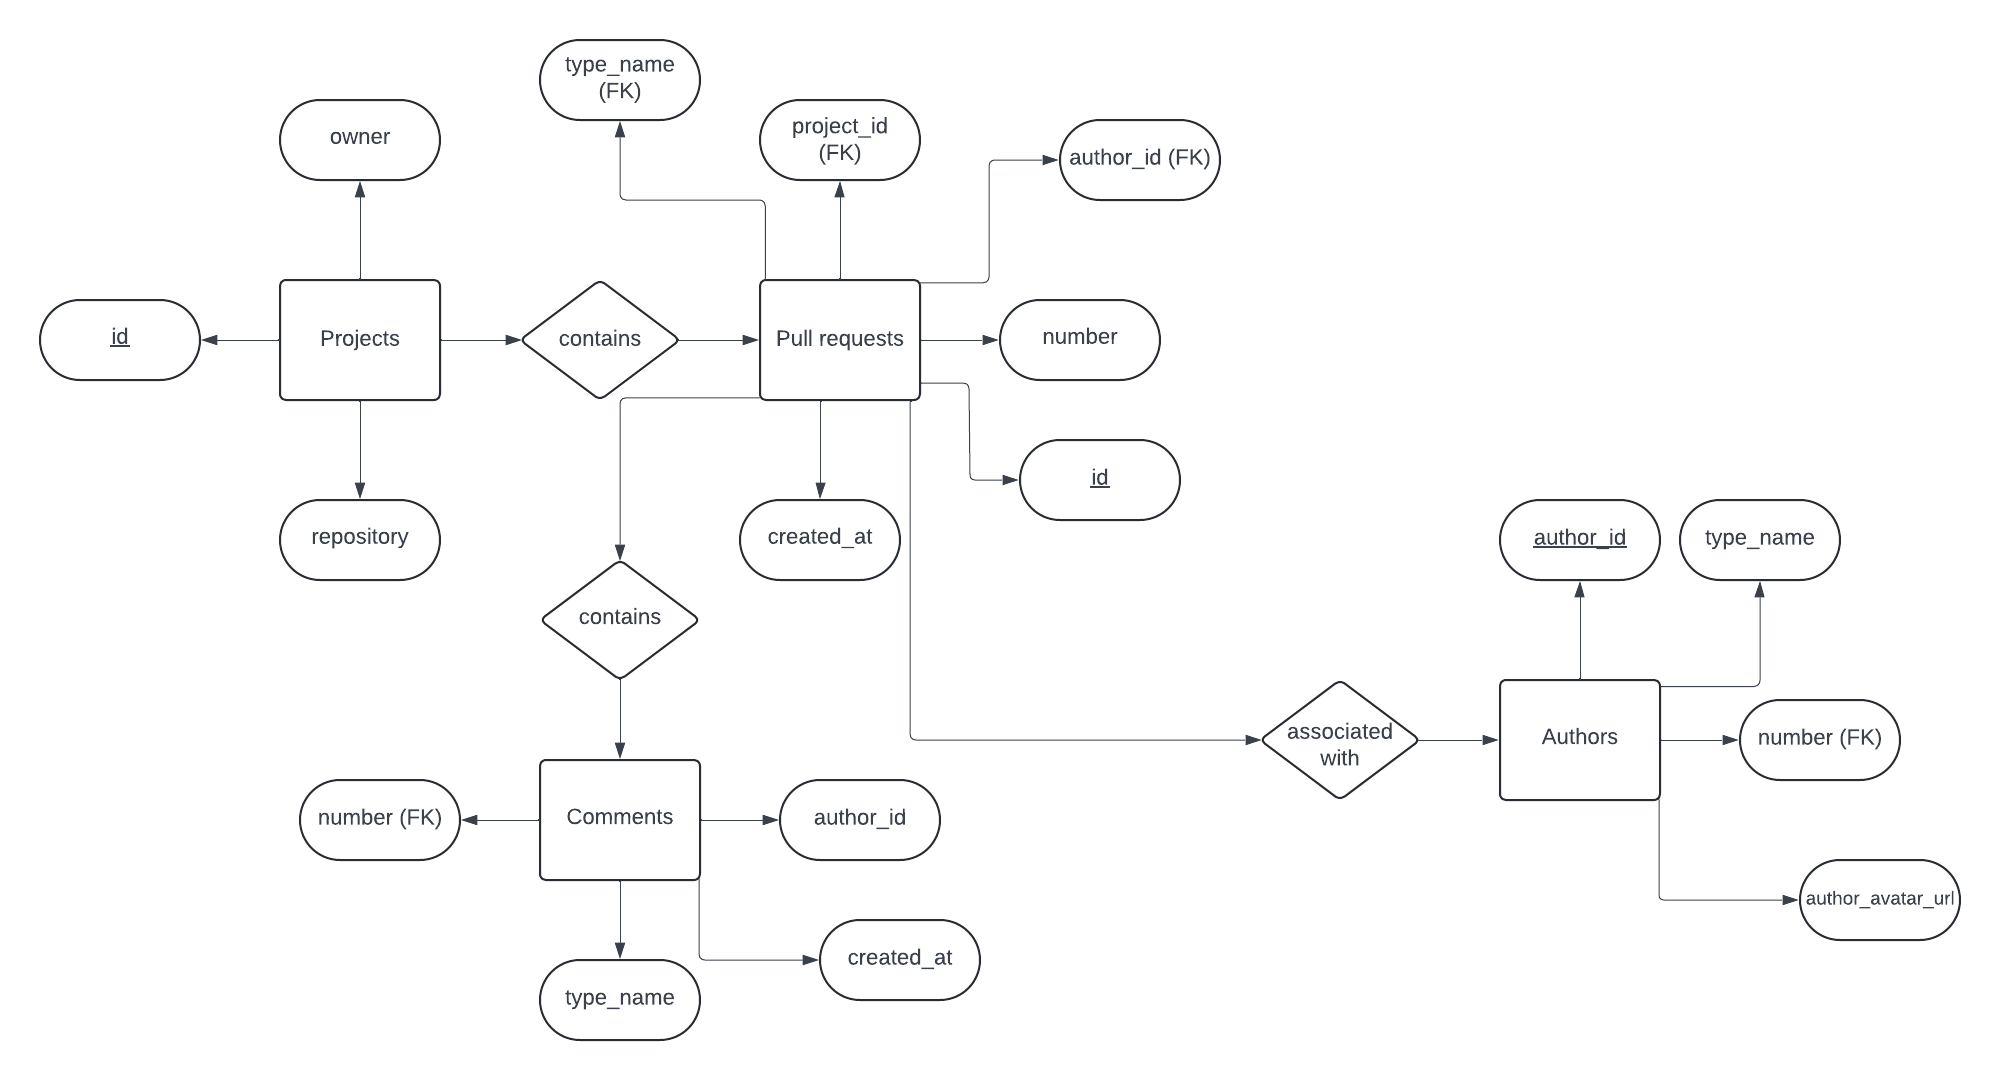
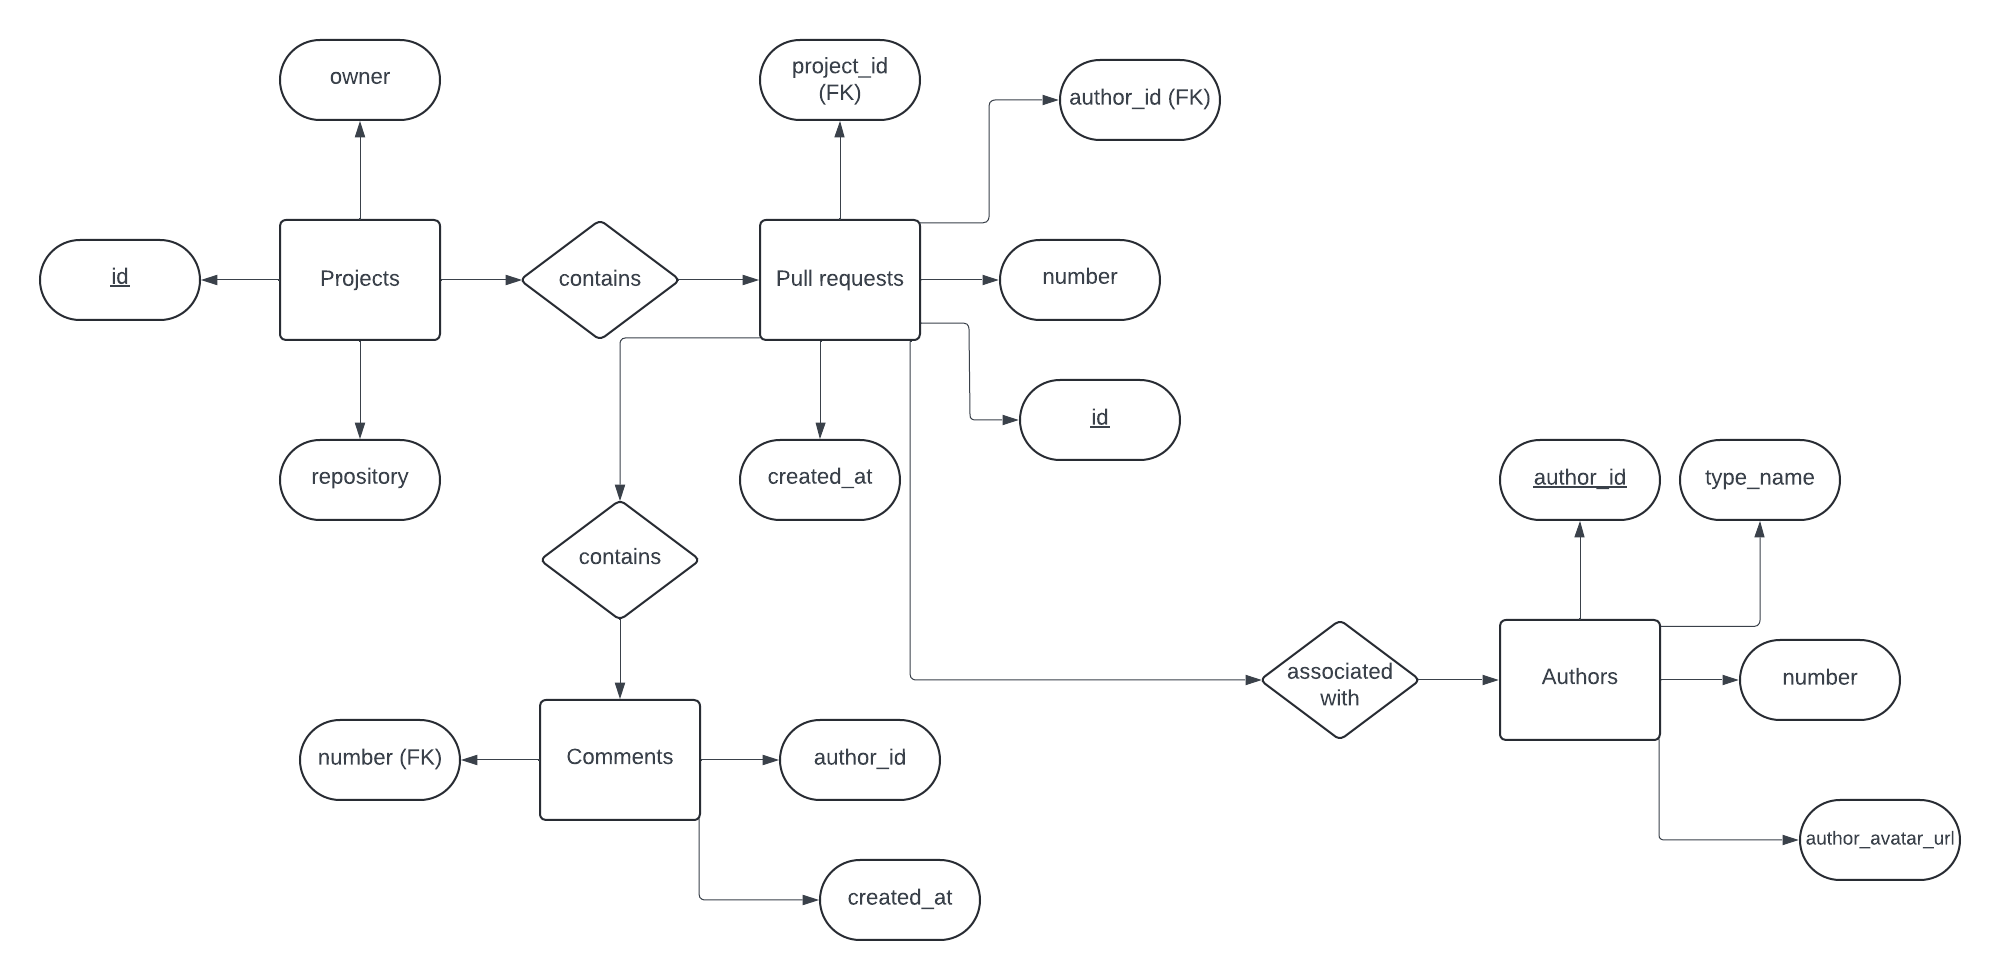
Edit crawl, migrate, & split files as well as schema.sql file & database schema ER diagram after initial feedback

diff --git a/migrator/migrate.py b/migrator/migrate.py
@@ -10,37 +10,28 @@ import mysql.connector
 
 # Initialises & reads the settings.ini configuration file
 config = ConfigParser()
-config.read("../crawler/settings.ini")
+config.read("../settings.ini")
 
 # Initialises the database connection
 db = mysql.connector.connect(
-    host="localhost",
-    user=config["DEFAULT"]["USER"],
-    password=config["DEFAULT"]["PASSWORD"],
-    database="codereviewvisualisation",
+    host=config["DATABASE"]["HOST"],
+    user=config["DATABASE"]["USER"],
+    password=config["DATABASE"]["PASSWORD"],
+    database=config["DATABASE"]["DATABASE_NAME"],
     time_zone="+00:00",  # Sets timezone to UTC
 )
-
-# Prints the database connection (for testing purposes, will probably be removed later on)
-print(db)
 
 # Initialises the database cursor
 cursor = db.cursor()
 
 # Change directory to the "microsoft-typescript-split" folder inside the crawler folder
-os.chdir("../crawler/microsoft-typescript-split")
+os.chdir("../data/microsoft-typescript-split")
 
 # Add the microsoft/typescript repository to the projects table
-OWNER = "microsoft"
-REPO = "typescript"
-projects_sql = f"INSERT INTO projects VALUES (1, '{OWNER}', '{REPO}');"
+OWNER = config["DATABASE"]["OWNER"]
+REPO = config["DATABASE"]["REPO"]
+projects_sql = f"INSERT INTO projects (owner, repository) VALUES ('{OWNER}', '{REPO}');"
 cursor.execute(projects_sql)
-
-# Initialise the pull request count to be 1
-pull_request_id = 1
-
-# Initialise the comment ID to 1
-comment_id = 1
 
 # Find all files with the .json extension
 for filename in glob.glob("*.json"):
@@ -52,8 +43,12 @@ for filename in glob.glob("*.json"):
     cursor.execute(
         "SELECT id FROM projects WHERE owner = 'microsoft' AND repository = 'typescript';"
     )
-    result = cursor.fetchall()
-    project_id = result[0][0]
+    result = cursor.fetchone()
+    project_id = result[0]
+
+    # Clear the result set
+    cursor.fetchall()
+
     # Finds the pull request number
     number = data["number"]
     # Finds the pull request creation dat
@@ -74,17 +69,27 @@ for filename in glob.glob("*.json"):
     # Converts the pull request creation date in datetime format back into a string
     created_at_timestamp = created_at_datetime.strftime("%Y-%m-%d %H:%M:%S")
 
+    # Check if the author ID is already in the authors table
+    authors_ids_sql = "SELECT author_id FROM authors;"
+    cursor.execute(authors_ids_sql)
+    author_ids = cursor.fetchall()
+
     # If the pull request author is not a bot, then execute the query
     if not type_name == "Bot":
-        # Check if the author ID is already in the authors table
-        authors_check_sql = (
-            "SELECT author_id FROM authors WHERE author_id = '%s';" % login
-        )
-        cursor.execute(authors_check_sql)
-        authors_check_result = cursor.fetchall()
 
-        # If the author is not already in the authors table
-        if len(authors_check_result) == 0:
+        # Initialise the value of already_added to False
+        already_added = False
+
+        # For each value in the author_ids list of tuples
+        for (item,) in author_ids:
+            # If the author is not already in the authors table
+            if login == item:
+                # Set the value of already_added to true
+                already_added = True
+                break
+
+        # If the author is not already added into the authors table
+        if not already_added:
             # Insert into authors table with no number originally
             authors_sql = "INSERT INTO authors (author_id, author_avatar_url, type_name) VALUES (%s, %s, %s);"
             authors_values = (login, avatar_url, type_name)
@@ -93,13 +98,16 @@ for filename in glob.glob("*.json"):
         # Get the last inserted author ID using the current value of the "login" variable
         author_id = login
 
-        # Insert into pull_requests table with no author_id originally
-        pull_requests_sql = "INSERT INTO pull_requests (id, number, project_id, created_at) VALUES (%s, %s, %s, %s);"
+        # Insert into pull_requests table with author_id as "Ghost" originally
+        pull_requests_sql = (
+            "INSERT INTO pull_requests (number, project_id, created_at, author_id) VALUES (%s, %s, "
+            "%s, %s);"
+        )
         pull_requests_values = (
-            pull_request_id,
             number,
             project_id,
             created_at_timestamp,
+            "Ghost",
         )
         cursor.execute(pull_requests_sql, pull_requests_values)
 
@@ -122,9 +130,6 @@ for filename in glob.glob("*.json"):
         update_pull_requests_values = (author_id, pull_request_number)
         cursor.execute(update_pull_requests_sql, update_pull_requests_values)
 
-        # Increment the pull request count by 1
-        pull_request_id += 1
-
     # Loop through every comment
     for i in range(comment_count):
         # If the author is a deleted user
@@ -140,19 +145,14 @@ for filename in glob.glob("*.json"):
                 "%Y-%m-%d %H:%M:%S"
             )
 
-            # If the author is a deleted user, then add "Deleted User" value for author_id & type_name
-            comments_sql_deleted_user = "INSERT INTO comments VALUES (%s, %s, %s, %s);"
+            # If the author is a deleted user, then add "Deleted User" value for author_id
+            comments_sql_deleted_user = "INSERT INTO comments (number, author_id, created_at) VALUES (%s, %s, %s);"
             comments_values_deleted_user = (
-                comment_id,
                 number,
                 "Deleted User",
                 comment_created_at_timestamp,
             )
             cursor.execute(comments_sql_deleted_user, comments_values_deleted_user)
-
-            # Increment comment ID by 1
-            comment_id += 1
-
             continue
 
         # Finds the author identifier
@@ -175,16 +175,13 @@ for filename in glob.glob("*.json"):
         # If the pull request author is not a bot, then execute the query
         if not type_name == "Bot":
             # Insert into comments table
-            comments_sql = "INSERT INTO comments VALUES (%s, %s, %s, %s);"
+            comments_sql = "INSERT INTO comments (number, author_id, created_at) VALUES (%s, %s, %s);"
             comments_values = (
-                comment_id,
                 number,
                 login,
                 comment_created_at_timestamp,
             )
             cursor.execute(comments_sql, comments_values)
-
-            comment_id += 1
 
     # Commit the changes to the database
     db.commit()

diff --git a/crawler/split.py b/crawler/split.py
@@ -4,9 +4,10 @@ import json
 import os.path
 import sys
 
+# Defines owner, repository name, & output constants
 OWNER = "microsoft"
 REPO = "typescript"
-OUTPUT = "%s-%s" % (OWNER, REPO)
+OUTPUT = "../data/%s-%s" % (OWNER, REPO)
 
 
 # Extracts the edges from the generated JSON files from the crawler
@@ -30,11 +31,11 @@ if __name__ == "__main__":
         sys.exit(1)
 
     print("microsoft typescript")
-    output_directory = "./microsoft-typescript-split/"
+    output_directory = "../data/microsoft-typescript-split/"
     if not os.path.isdir(output_directory):
         os.mkdir(output_directory)
 
-    with open("./microsoft-typescript/first.json") as file:
+    with open("../data/microsoft-typescript/first.json") as file:
         content = file.read()
         edges = extract_edges(content)
         save_nodes(output_directory, edges)
@@ -43,7 +44,7 @@ if __name__ == "__main__":
     while previous_cursor:
         print(previous_cursor)
         try:
-            with open("./microsoft-typescript/%s" % previous_cursor) as file:
+            with open("../data/microsoft-typescript/%s" % previous_cursor) as file:
                 content = file.read()
                 edges = extract_edges(content)
                 save_nodes(output_directory, edges)

diff --git a/crawler/crawl.py b/crawler/crawl.py
@@ -12,7 +12,7 @@ from logger import init_logger
 
 # Initialises & reads the settings.ini configuration file
 config = ConfigParser()
-config.read("settings.ini")
+config.read("../settings.ini")
 
 # Initialises the logger from the logger.py file
 init_logger("execution.log")
@@ -144,7 +144,7 @@ def crawl(
 # Main loop
 if __name__ == "__main__":
     for owner, repo in OWNER_REPO_DICT.items():
-        output_directory = "./%s-%s/" % (owner, repo)
+        output_directory = "../data/%s-%s/" % (owner, repo)
         # If the output directory does not exist then create it
         if not os.path.isdir(output_directory):
             os.mkdir(output_directory)
